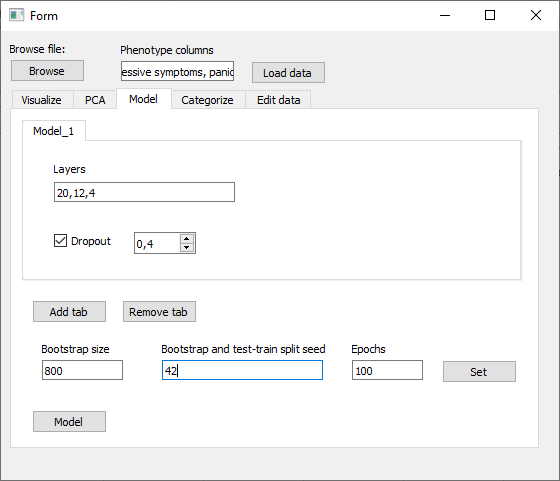
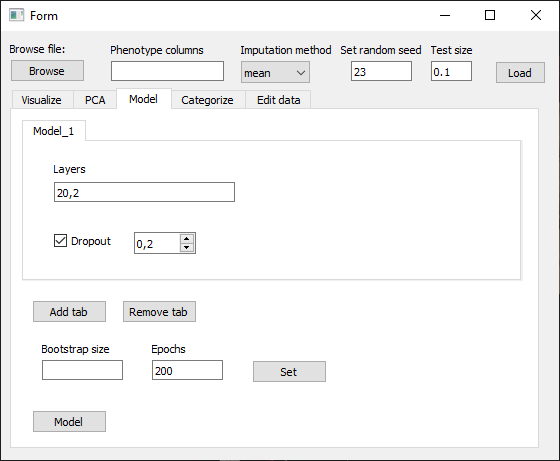
Just quick update

diff --git a/gui.py b/gui.py
@@ -17,7 +17,9 @@ from PyQt5.QtWidgets import QMainWindow, QApplication, \
     QWidget, QFileDialog, \
     QLineEdit, QTableWidgetItem, QDoubleSpinBox, QCheckBox
 from methods import open_data, split_data, visualize_data, pca_analysis, model \
-    , categorize_ui, set_seed_val, resample, compare_dist_num, compare_dist_cat, scale_for_model
+    , categorize_ui, set_seed_val, resample, compare_dist_num, compare_dist_cat, scale_for_model \
+        , macro_precision, macro_recall
+        
 
 import concurrent.futures
 import pandas as pd
@@ -434,8 +436,7 @@ class MainWindow(QMainWindow):
         set_seeds(self.seed_val)
         set_seed_val(self.seed_val)
         new_train_data, train_pheno = resample(cat, num, train_pheno, length_data, False, True, selection, neighbours=1,
-                                               seed=self.seed_val)
-
+                                               seed=self.seed_val)   
     def run_model(self):
         """
         Runs the model(s) using the user input parameters.
@@ -498,22 +499,23 @@ class MainWindow(QMainWindow):
                 results = [ex.submit(models[i].fit, [dummified_train, data_num_train], train_pheno,
                                      validation_data=([dummified_test, data_num_test], test_pheno),
                                      epochs=self.epoch_size,
-                                     verbose=2, batch_size=self.boot_size, shuffle=False) for i in
+                                     verbose=1, batch_size=self.boot_size, shuffle=True) for i in
                            range(len(self.layer_info))]
             elif cat == True:
 
                 results = [
                     ex.submit(models[i].fit, dummified_train, train_pheno,
                               validation_data=(dummified_test, test_pheno),
-                              epochs=self.epoch_size, verbose=2, batch_size=self.boot_size, shuffle=False) for i in
+                              epochs=self.epoch_size, verbose=1, batch_size=self.boot_size, shuffle=True) for i in
                     range(len(self.layer_info))]
             elif num == True:
 
                 results = [ex.submit(models[i].fit, data_num_train, train_pheno,
-                                     validation_data=(data_num_test, test_pheno), epochs=self.epoch_size, verbose=2,
-                                     batch_size=self.boot_size, shuffle=False) for i in range(len(self.layer_info))]
+                                     validation_data=(data_num_test, test_pheno), epochs=self.epoch_size, verbose=1,
+                                     batch_size=self.boot_size, shuffle=True) for i in range(len(self.layer_info))]
             for f in results:
                 histories.append(f.result().history)
+                
 
         # create the ensemble model by combining fit results of all seperate models
         model_input_num = tf.keras.Input(len(list(data_num_train)), name='ensemble_num')
@@ -536,9 +538,7 @@ class MainWindow(QMainWindow):
             ensemble_model = tf.keras.Model(inputs=model_input_num, outputs=ensemble_output)
 
         # compile the ensemble model
-        ensemble_model.compile(loss='categorical_crossentropy', \
-                               metrics=['accuracy', tf.keras.metrics.Precision(name='Precision'),
-                                        tf.keras.metrics.Recall(name='Recall')])
+        ensemble_model.compile(loss='categorical_crossentropy', metrics=["categorical_accuracy", macro_precision, macro_recall])
 
         var = list(dummified_test) + list(data_num_test)
         results_perm = []
@@ -567,31 +567,33 @@ class MainWindow(QMainWindow):
         print(ensemble_result)
 
         for hist in histories:
+            print(hist.keys())
             fig, axs = plt.subplots(3, figsize=(8, 6))  # Create a 4-subplot figure
 
             # accuracy
-            axs[0].plot(hist['accuracy'], label='train accuracy')
-            axs[0].plot(hist['val_accuracy'], label='validation accuracy')
+            axs[0].plot(hist['categorical_accuracy'], label='train accuracy')
+            axs[0].plot(hist['val_categorical_accuracy'], label='validation accuracy')
             axs[0].set_xlabel('epoch number')
             axs[0].set_ylabel('Accuracy')
             axs[0].legend(loc="upper right")
-
-            # precision
-            axs[1].plot(hist['Precision'], label='train precision')
-            axs[1].plot(hist['val_Precision'], label='test precision')
+    
+            # macro precision
+            axs[1].plot(hist['macro_precision'], label='train macro precision')  
+            axs[1].plot(hist['val_macro_precision'], label='validation macro precision') 
             axs[1].set_xlabel('epoch number')
-            axs[1].set_ylabel('Precision')
+            axs[1].set_ylabel('Macro Precision')  # <-- Updated here
             axs[1].legend(loc="upper right")
-
-            # recall
-            axs[2].plot(hist['Recall'], label='train recall')
-            axs[2].plot(hist['val_Recall'], label='test recall')
+    
+            # macro recall
+            axs[2].plot(hist['macro_recall'], label='train macro recall')  
+            axs[2].plot(hist['val_macro_recall'], label='validation macro recall')  
             axs[2].set_xlabel('epoch number')
-            axs[2].set_ylabel('Recall')
+            axs[2].set_ylabel('Macro Recall') 
             axs[2].legend(loc="upper right")
 
             plt.tight_layout()
             plt.show()
+
 
     def shuffle_col(self, df, df2, name):
         """

diff --git a/methods.py b/methods.py
@@ -17,7 +17,9 @@ from keras.layers import Input
 from keras.layers import Concatenate
 from keras.layers import BatchNormalization
 import tensorflow as tf
+import tensorflow.keras.backend as K
 import random as rn
+from sklearn.metrics import accuracy_score
 
 pd.options.mode.chained_assignment = None  # default='warn'
 
@@ -480,6 +482,47 @@ def visualize_data(cat_data, selection, num_data, df_pheno):
     return fig
 
 
+def macro_precision(y_true, y_pred):
+    # Convert predictions to one-hot vectors
+    y_pred = K.round(K.clip(y_pred, 0, 1))
+    
+    # Calculate precision for each class
+    true_positives = K.sum(K.round(K.clip(y_true * y_pred, 0, 1)), axis=0)
+    predicted_positives = K.sum(K.round(K.clip(y_pred, 0, 1)), axis=0)
+    precision = true_positives / (predicted_positives + K.epsilon())
+    
+    # Average precision across all classes
+    macro_precision = K.mean(precision)
+    
+    return macro_precision
+
+def macro_recall(y_true, y_pred):
+    # Convert predictions to one-hot vectors
+    y_pred = K.round(K.clip(y_pred, 0, 1))
+    
+    # Calculate recall for each class
+    true_positives = K.sum(K.round(K.clip(y_true * y_pred, 0, 1)), axis=0)
+    actual_positives = K.sum(K.round(K.clip(y_true, 0, 1)), axis=0)
+    recall = true_positives / (actual_positives + K.epsilon())
+    
+    # Average recall across all classes
+    macro_recall = K.mean(recall)
+    
+    return macro_recall
+
+def random_pred(y_true, y_pred):
+    y_random = np.random.choice([0, len(y_pred.columns)-1], size=len(y_pred))
+    y_random = pd.DataFrame(y_random, index = y_pred.index, columns = y_pred.columns)
+    
+    # Convert to dummy variables
+    y_random_dummy = y_random.get_dummies()
+    y_random_acc = accuracy_score(y_true, y_pred)
+    y_random_recall = macro_recall(y_true,y_random_dummy)
+    y_random_precision = macro_precision(y_true,y_random_dummy)
+    
+    return y_random_acc, y_random_recall, y_random_precision
+    
+
 def model(cat_df, num_df, layers_model, dropout, num=True, cat=True, seed=0):
     """
     Creates a model instance
@@ -569,8 +612,7 @@ def model(cat_df, num_df, layers_model, dropout, num=True, cat=True, seed=0):
 
     # compile model and select metrics to keep track of
     model.compile(loss='categorical_crossentropy', \
-                  metrics=['accuracy', tf.keras.metrics.Precision(name='Precision'),
-                           tf.keras.metrics.Recall(name='Recall')])
+                  metrics=["categorical_accuracy", macro_precision, macro_recall])
     return model
 
 
@@ -668,18 +710,20 @@ def compare_dist_cat(fullset, subset):
         print(
             "The distributions of cat variables in the subset and the entire dataset are NOT statistically different.")
 
-    # Calculate the absolute difference
-    difference = np.abs(observed_cdf - full_cdf)
-
     plt.figure(figsize=(10, 6))
-    plt.plot(range(1, len(difference) + 1), difference, label='CDF Difference', marker='o', linestyle='-')
-    plt.title('Difference Between Subset CDF and Full Dataset CDF')
+    
+    # Plot the distribution for the subset
+    plt.plot(range(1, len(observed_cdf) + 1), observed_cdf, 'r--', label='Subset CDF', marker='o')  # red dotted line
+    
+    # Plot the distribution for the full dataset
+    plt.plot(range(1, len(full_cdf) + 1), full_cdf, 'b-', label='Full Dataset CDF', marker='o')  # solid blue line
+    
+    plt.title('ECDFs for Subset and Full Dataset')
     plt.xlabel('Categories (encoded)')
-    plt.ylabel('Absolute Difference in Cumulative Proportion')
+    plt.ylabel('Cumulative Proportion')
     plt.legend()
     plt.grid(True)
     plt.show()
-
 
 def compare_dist_num(fullset, subset):
     # Number of variables
@@ -844,7 +888,7 @@ def resample(cat, num, ph, len_data, under, over, name, neighbours=1, seed=0, sa
 
         selected_indices = [original_indices[i] for i in undersample.sample_indices_]
         data_re = pd.DataFrame(data_re, columns=all_cols, index=selected_indices)
-        pheno_re = pd.DataFrame(pheno_re, index=list(selected_indices))
+        #pheno_re = pd.DataFrame(pheno_re, index=list(selected_indices))
 
     elif over == True:
         methods = ['SMOTE', 'ADASYN']
@@ -862,7 +906,7 @@ def resample(cat, num, ph, len_data, under, over, name, neighbours=1, seed=0, sa
         data_re = pd.DataFrame(data_re, columns=all_cols)
         synthetic_indices = range(len_data + 1, len_data + 1 + len(data_re))
         data_re.index = synthetic_indices
-        pheno_re = pd.DataFrame(pheno_re, index=synthetic_indices)
+        #pheno_re = pd.DataFrame(pheno_re, index=synthetic_indices)
 
     # convert back to dataframe format
     data_re_cat = data_re[data_cat.columns]

diff --git a/README.md b/README.md
@@ -105,8 +105,8 @@ When the p value is greater than 0.05 the null-hypothesis which states that the 
 In this case the null-hypothesis is not rejected thus the distribution between the test and training set are similar.
 
 For the cumulative categorical distribution the difference is plotted and a line is printed in the console.
-The console line states that the difference between the 2 distributions is significant if the difference between the two reaches a value greater than alpha.
-Which in this case is set to 0.05. So here we can also conclude that there is not significant difference between the sets. 
+The console line states that the difference between the 2 distributions is significant if the Kolmogorov-Smirnov test Null-hypothesis can be rejected.
+So here we can also conclude that there is not significant difference between the sets. 
 
 ![My Image](Images/table.PNG)
 
@@ -115,30 +115,25 @@ Moving to the categorize tab to view the table we decide to remove the column'co
 ![My Image](Images/remove.PNG)
 
 We will move to the edit data tab to this column in this case column number 50.
-We also want to remove columns that have a correlation of larger than 0.85.
 After which we run the undersample method with random as parameter, giving us random undersampling to balance the classes.
-
-
-
 
 
 ![My Image](Images/setup.PNG)
 
 After this we are ready to set up the model parameters.
-We will move to the model tab and make a model consisting of 5 layers with the first layer having 120 nodes,
-the second layer having 40, the third layer having 80, the fourth 20 and the final layer having 2 layers. The final layer must have as many nodes as 
-there are phenotype variables (no mental health issues and mental health issues).
-We will also choose a dropout rate of 0.3. If you want to add another model this is possible with the add tab option.
+We will move to the model tab and make a model consisting of 2 layers with the first layer having 20 nodes and the final layer having 2 nodes. 
+The final layer must have as many nodes as there are phenotype variables (no mental health issues and mental health issues).
+We will also choose a dropout rate of 0.2. If you want to add another model this is possible with the add tab option.
 However, for this example we will just stick with one. For this model we will set a bootstrap size of 32,
-random seed of 42 and 300 epochs. If we run this without filling in these settings it will run the default ones,
+random seed of 23 and 200 epochs. If we run this without filling in these settings it will run the default ones,
 which is 32 bootstrap size, random seed of 42 and 100 epochs.
 
 ![My Image](Images/resultplot.PNG)
 
-The results will be shown in a plot and in the command window
+The results will be shown in a plot and in the command window. In this case the accuracy of the test set is not a good representation of the
+model as the data classes are quite imbalanced. So Precision and Recall metrics are more imformative.
 
-{'loss': 0.5225058197975159, 'accuracy': 0.7726315855979919, 'Precision': 0.7023809552192688, 'Recall': 0.7452631592750549}
-
+{'loss': 0.507735013961792, 'accuracy': 0.8305489420890808, 'Precision': 0.7116279006004333, 'Recall': 0.7303102612495422}
 
 ![My Image](Images/vars.PNG)
 
